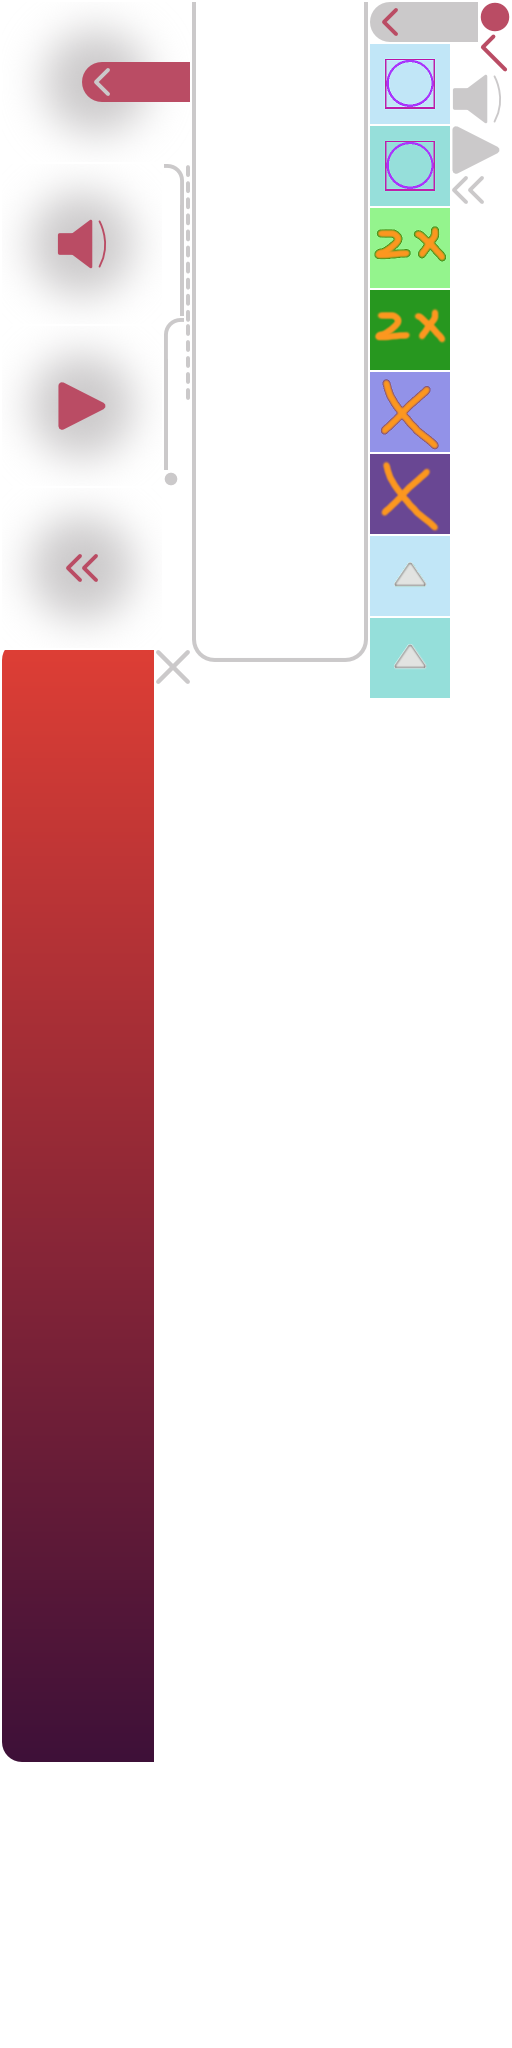
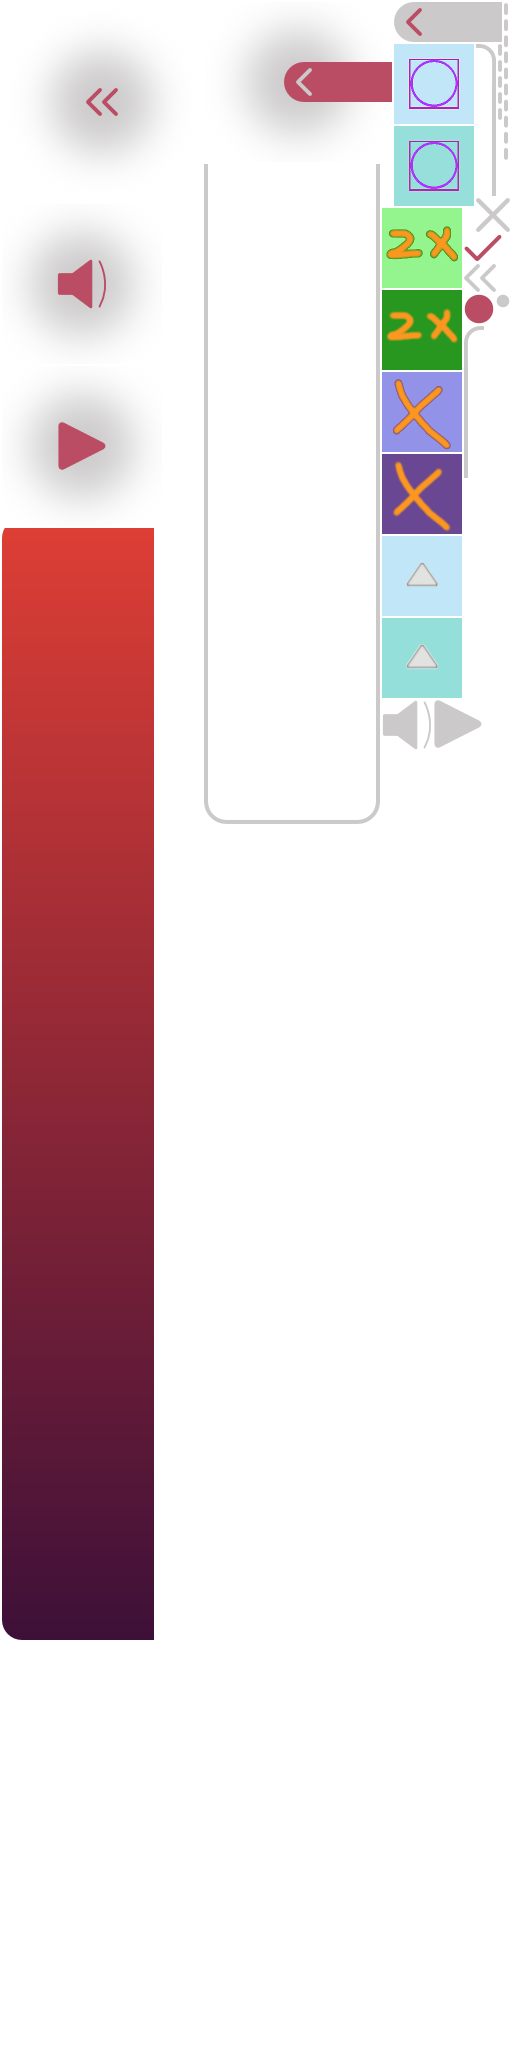
not using sprite mask anymore, change an asset

Changed region(s): [[0.4688, 0.0, 1.0, 0.4062], [0.0, 0.0, 0.4062, 0.4062], [0.0, 0.7812, 0.3125, 0.875]]

diff --git a/PttrnFlow/PttrnFlow/Layers/SequenceUILayer.m b/PttrnFlow/PttrnFlow/Layers/SequenceUILayer.m
@@ -58,18 +58,6 @@ static CGFloat const kItemMenuRowHeight = 80;
     self = [super init];
     if (self) {
         
-        
-        
-        // testing masks
-        
-        TBSpriteMask *maskedSprite = [[TBSpriteMask alloc] initWithFile:@"Calendar1.png" andMaskFile:@"CalendarMask.png"];
-        [self addChild:maskedSprite];
-
-        //
-        
-        
-        
-        
         _tickDispatcher = tickDispatcher;
 
         // general sizes / positions
@@ -183,7 +171,6 @@ static CGFloat const kItemMenuRowHeight = 80;
         rightGradientMask.anchorPoint = ccp(0, 0);
         rightGradientMask.position = ccp([self itemMenuLeftOpened:NO], kItemMenuBottom);
         [self addChild:rightGradientMask];
-        
         
         // size and position the pan sprite and control bar
         [self configureItemMenuOpened:NO animated:NO];

diff --git a/PttrnFlow/PttrnFlow/3rd Party/TBSpriteMask/TBSpriteMask.m b/PttrnFlow/PttrnFlow/3rd Party/TBSpriteMask/TBSpriteMask.m
@@ -13,7 +13,7 @@ do {                                                                            
     ccGLEnable( _mask.glServerState );                                              \
     NSAssert1(_mask.shaderProgram, @"No shader program set for node: %@", _mask);   \
     [_mask.shaderProgram use];                                                      \
-    [_mask.shaderProgram setUniformForModelViewProjectionMatrix];                                   \
+    [_mask.shaderProgram setUniformForModelViewProjectionMatrix];                   \
 } while(0)                                                                          \
 
 @implementation TBSpriteMask
